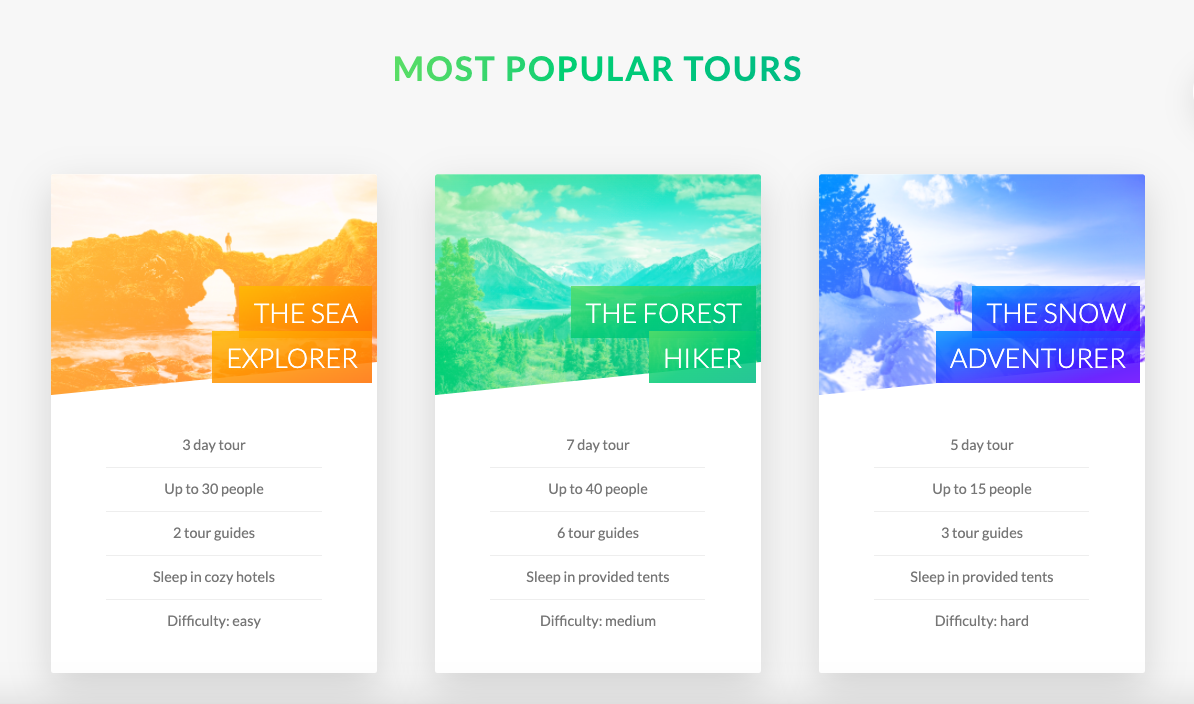
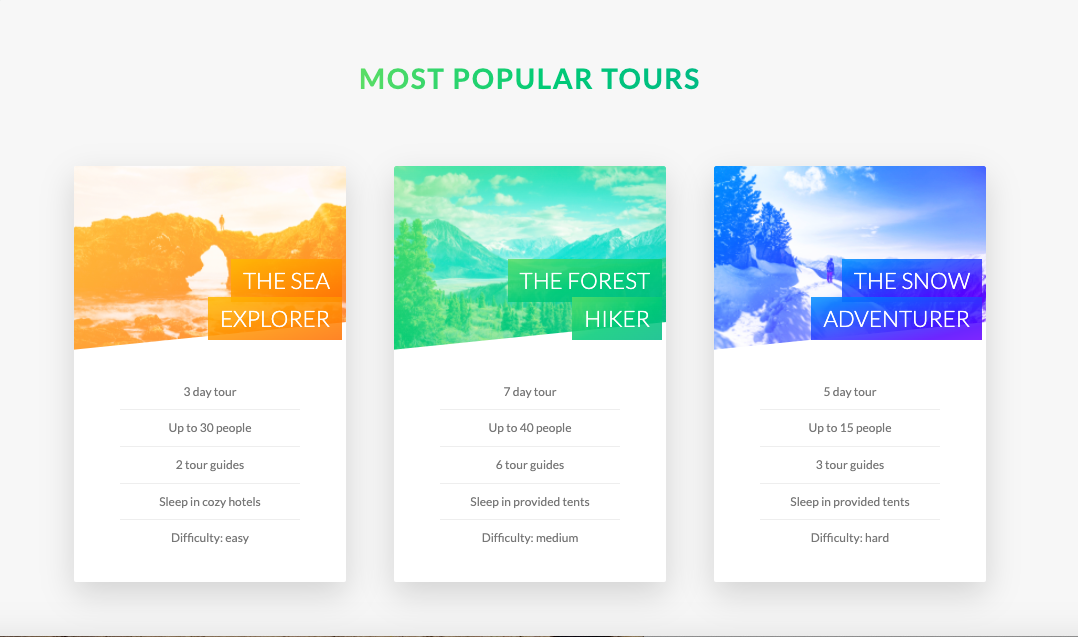
updated natours image so heading isn't cut through in thumbnail, moved GA script

diff --git a/public/index.html b/public/index.html
@@ -16,6 +16,15 @@
   <link href="https://fonts.googleapis.com/css?family=Open+Sans:400,700|Roboto+Slab:400,700&display=swap" rel="stylesheet">
   <link href="https://fonts.googleapis.com/css?family=Montserrat:400,500,700|Ubuntu:400,500,700&display=swap" rel="stylesheet">
   <meta name="theme-color" content="#fafafa">
+      <!-- Global site tag (gtag.js) - Google Analytics -->
+<script async src="https://www.googletagmanager.com/gtag/js?id=UA-139849152-2"></script>
+<script>
+  window.dataLayer = window.dataLayer || [];
+  function gtag(){dataLayer.push(arguments);}
+  gtag('js', new Date());
+
+  gtag('config', 'UA-139849152-2');
+</script>
 </head>
 <!--- Hey there!! Welcome to my website's HTML! --->
 <body class="container">
@@ -275,15 +284,7 @@
     </div>
   </footer>
   <!--- JavaScript ---->
-  <!-- Global site tag (gtag.js) - Google Analytics -->
-<script async src="https://www.googletagmanager.com/gtag/js?id=UA-139849152-2"></script>
-<script>
-  window.dataLayer = window.dataLayer || [];
-  function gtag(){dataLayer.push(arguments);}
-  gtag('js', new Date());
 
-  gtag('config', 'UA-139849152-2');
-</script>
   <script src="js/vendor/modernizr-3.8.0.min.js"></script>
   <script src="js/plugins.js"></script>
   <script src="js/main.js"></script>

diff --git a/public/about/index.html b/public/about/index.html
@@ -16,6 +16,15 @@
   <link href="https://fonts.googleapis.com/css?family=Open+Sans:400,700|Roboto+Slab:400,700&display=swap" rel="stylesheet">
   <link href="https://fonts.googleapis.com/css?family=Montserrat:400,500,700|Ubuntu:400,500,700&display=swap" rel="stylesheet">
   <meta name="theme-color" content="#fafafa">
+      <!-- Global site tag (gtag.js) - Google Analytics -->
+<script async src="https://www.googletagmanager.com/gtag/js?id=UA-139849152-2"></script>
+<script>
+  window.dataLayer = window.dataLayer || [];
+  function gtag(){dataLayer.push(arguments);}
+  gtag('js', new Date());
+
+  gtag('config', 'UA-139849152-2');
+</script>
 </head>
 <body class="container__about"> 
     <header class="header__about">
